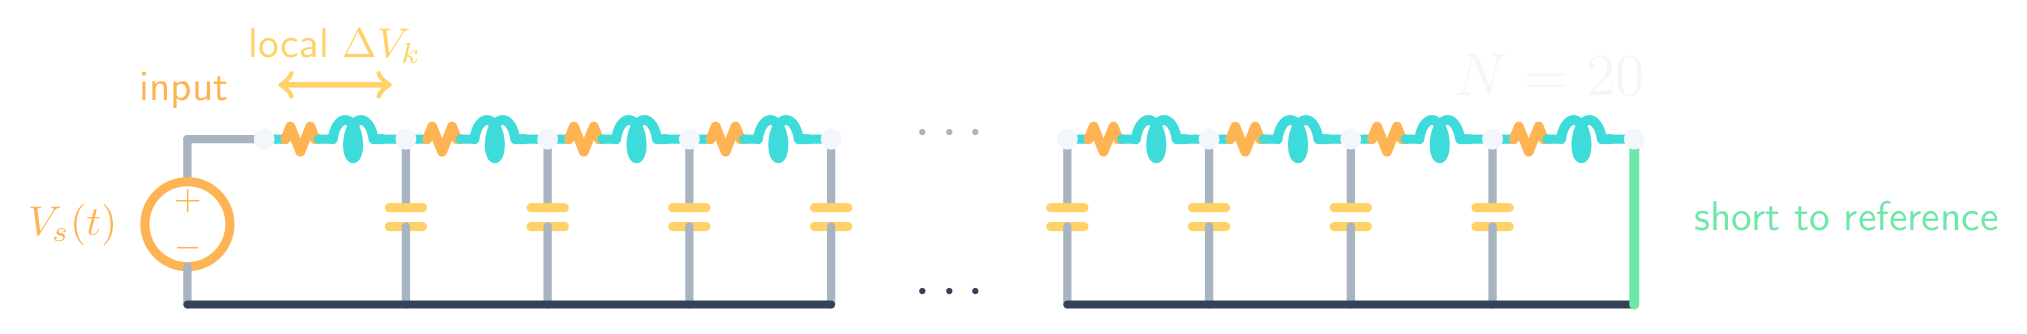
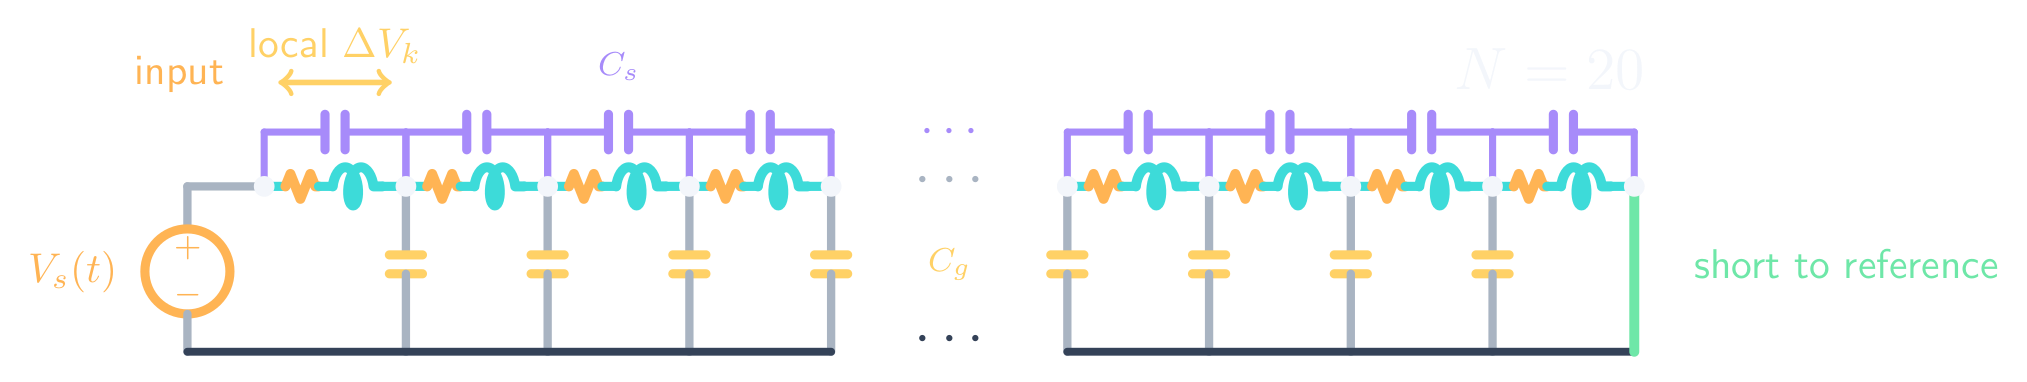
Manim/TikZ: corrige circuito (Cs serie, Cg recolocado) e ajusta apresentacao
- Diagrama grounded com capacitores serie Cs em paralelo com cada R-L; Cg movido para o gap central (sem sobreposicao com o circuito)
- Legenda do modelo lista R, L, Cg (shunt) e Cs (turn-to-turn); simbolo mu no lugar de 'u' nos textos de tempo
- Maior espacamento vertical nos callouts da cena da fonte (Peak/Front/Tail) e reposicionamento para evitar colisoes
- Janela da animacao temporal reduzida para 10 us; varredura temporal 2x mais rapida (run_time 240->120 s)
- .gitignore: ignora PDF intermediario do TikZ em assets (o .png e a saida versionada)

diff --git a/manim_presentation.py b/manim_presentation.py
@@ -41,8 +41,8 @@ SOLENOID_IMAGE_PATH = ROOT / "assets" / "solenoid_reference.png"
 LADDER_TIKZ_IMAGE_PATH = ROOT / "assets" / "tikz_ladder_circuit.png"
 GROUNDED_LADDER_TIKZ_IMAGE_PATH = ROOT / "assets" / "tikz_ladder_grounded_circuit.png"
 STATIC_TIME_WINDOW_US = 100.0
-ANIMATION_TIME_WINDOW_US = 20.0
-ANIMATION_PROFILE_RUN_TIME = 240.0
+ANIMATION_TIME_WINDOW_US = 10.0
+ANIMATION_PROFILE_RUN_TIME = 30.0
 TIME_DOMAIN_ALPHA = 5.0  # winding distribution factor for the grounded time-domain
                          # animation (C_series_total = C_total / alpha^2): the surge
                          # starts crowded at the entrance and relaxes toward uniform.
@@ -284,7 +284,7 @@ class VisualFactory:
         )
         return Group(visual, guide_path)
 
-    def surge_arrow(self, text: str = "1.2/50 us surge") -> VGroup:
+    def surge_arrow(self, text: str = "1.2/50 μs surge") -> VGroup:
         arrow = Arrow(LEFT * 2.7, LEFT * 0.55, color=ORANGE, buff=0.0, stroke_width=7)
         label = Text(text, font_size=19, color=ORANGE, weight=BOLD)
         label.next_to(arrow, UP, buff=0.12)
@@ -797,11 +797,15 @@ class SurgePresentation(Scene):
             Text("series resistance", font_size=13, color=MUTED),
             MathTex("L", font_size=24, color=CYAN),
             Text("series inductance", font_size=13, color=MUTED),
-            MathTex("C", font_size=24, color=YELLOW),
+            MathTex("C_g", font_size=24, color=YELLOW),
             Text("shunt capacitance", font_size=13, color=MUTED),
+            MathTex("C_s", font_size=24, color=PURPLE),
+            Text("turn-to-turn", font_size=13, color=MUTED),
         ).arrange(RIGHT, buff=0.16)
         legend.next_to(ladder, DOWN, buff=0.18)
 
+        c_total = float(cfg['C_total'])
+        c_series = c_total / (TIME_DOMAIN_ALPHA ** 2)
         per_section = VGroup(
             MathTex(
                 rf"L_{{\mathrm{{total}}}} = {float(cfg['L_total']) * 1e3:.1f}\,\mathrm{{mH}}",
@@ -814,12 +818,18 @@ class SurgePresentation(Scene):
                 color=ORANGE,
             ),
             MathTex(
-                rf"C_{{\mathrm{{total}}}} = {float(cfg['C_total']) * 1e9:.1f}\,\mathrm{{nF}}",
+                rf"C_g = {c_total * 1e9:.1f}\,\mathrm{{nF}}",
                 font_size=26,
                 color=YELLOW,
             ),
+            MathTex(
+                rf"C_s = {c_series * 1e12:.1f}\,\mathrm{{pF}}"
+                rf"\quad(\alpha = {TIME_DOMAIN_ALPHA:.0f})",
+                font_size=26,
+                color=PURPLE,
+            ),
             Text("State-space ODE solved with scipy", font_size=16, color=MUTED),
-        ).arrange(DOWN, aligned_edge=LEFT, buff=0.14)
+        ).arrange(DOWN, aligned_edge=LEFT, buff=0.12)
         per_section.to_edge(DOWN, buff=0.45).shift(LEFT * 3.3)
 
         source_statement = VGroup(
@@ -1034,7 +1044,7 @@ class SurgePresentation(Scene):
     def source_scene(self) -> None:
         heading = self.factory.heading(
             "Impulse Source",
-            "1.2/50 us waveform used as the input voltage source",
+            "1.2/50 μs waveform used as the input voltage source",
         )
         cfg = self.data.config
         source = ImpulseSource(
@@ -1117,7 +1127,7 @@ class SurgePresentation(Scene):
         def callout(title: str, detail_tex: str, color: str, width: float = 2.05) -> VGroup:
             box = RoundedRectangle(
                 width=width,
-                height=0.68,
+                height=0.86,
                 corner_radius=0.08,
                 fill_color=BACKGROUND,
                 fill_opacity=0.86,
@@ -1126,23 +1136,23 @@ class SurgePresentation(Scene):
             )
             title_mob = Text(title, font_size=13, color=color, weight=BOLD)
             detail_mob = MathTex(detail_tex, font_size=21, color=TEXT)
-            text_group = VGroup(title_mob, detail_mob).arrange(DOWN, aligned_edge=LEFT, buff=0.01)
+            text_group = VGroup(title_mob, detail_mob).arrange(DOWN, aligned_edge=LEFT, buff=0.18)
             text_group.move_to(box.get_center())
             group = VGroup(box, text_group)
             group.set_z_index(6)
             return group
 
         peak_label = callout("Peak", r"100\%\ \mathrm{reference}", YELLOW, width=2.10)
-        peak_label.move_to(axes.c2p(27.0, 93.0))
+        peak_label.move_to(axes.c2p(42.0, 93.0))
         front_label = callout("Front time", r"T_1 = 1.2\,\mu\mathrm{s}", CYAN, width=2.25)
-        front_label.move_to(axes.c2p(20.0, 32.0))
+        front_label.move_to(axes.c2p(15.0, 55.0))
         tail_label = callout("Tail time", r"T_2 = 50\,\mu\mathrm{s}", BLUE, width=2.15)
-        tail_label.move_to(axes.c2p(73.0, 72.0))
+        tail_label.move_to(axes.c2p(80.0, 55.0))
 
         def note_card(title: str, detail: str, color: str) -> VGroup:
             box = RoundedRectangle(
                 width=3.55,
-                height=0.58,
+                height=0.74,
                 corner_radius=0.07,
                 fill_color=BACKGROUND,
                 fill_opacity=0.48,
@@ -1151,14 +1161,14 @@ class SurgePresentation(Scene):
             )
             title_mob = Text(title, font_size=12, color=color, weight=BOLD)
             detail_mob = Text(detail, font_size=11, color=MUTED)
-            text_group = VGroup(title_mob, detail_mob).arrange(DOWN, aligned_edge=LEFT, buff=0.02)
+            text_group = VGroup(title_mob, detail_mob).arrange(DOWN, aligned_edge=LEFT, buff=0.16)
             text_group.move_to(box.get_center())
             return VGroup(box, text_group)
 
         definition = VGroup(
             note_card("Fast front", "First sections charge first.", CYAN),
             note_card("Tail", "Voltage remains during redistribution.", BLUE),
-        ).arrange(RIGHT, buff=0.24)
+        ).arrange(RIGHT, buff=0.50)
         definition.next_to(axes, DOWN, buff=0.36).align_to(axes, LEFT)
         source_badge = VGroup(
             RoundedRectangle(

diff --git a/assets/tikz_ladder_grounded_circuit.tex b/assets/tikz_ladder_grounded_circuit.tex
@@ -16,6 +16,7 @@
 \definecolor{psOrange}{HTML}{FFB454}
 \definecolor{psYellow}{HTML}{FFD166}
 \definecolor{psGreen}{HTML}{6EE7A8}
+\definecolor{psPurple}{HTML}{A78BFA}
 
 \tikzset{
     wire/.style={draw=psMuted,line width=2.0pt},
@@ -24,6 +25,8 @@
     resistor/.style={draw=psOrange,line width=2.4pt,decorate,decoration={zigzag,amplitude=3.0pt,segment length=4.8pt}},
     inductor/.style={draw=psCyan,line width=2.4pt,decorate,decoration={coil,aspect=0.45,segment length=3.8pt,amplitude=4.6pt}},
     capplate/.style={draw=psYellow,line width=2.2pt},
+    seriesplate/.style={draw=psPurple,line width=2.2pt},
+    serieswire/.style={draw=psPurple,line width=1.7pt},
     sourcecircle/.style={draw=psOrange,line width=2.2pt},
     shortwire/.style={draw=psGreen,line width=2.4pt},
 }
@@ -43,6 +46,18 @@
     \draw[wire] (#1,-0.74) -- (#1,-1.40);
 }
 
+% Cs (turn-to-turn) capacitor in parallel with each R-L branch, arching above.
+% Adjacent cells share the node verticals, forming a series Cs chain on top.
+\newcommand{\seriescap}[2]{
+    \pgfmathsetmacro{\cx}{(#1 + #2)/2}
+    \draw[serieswire] (#1,0) -- (#1,0.46);
+    \draw[serieswire] (#1,0.46) -- ({\cx - 0.085},0.46);
+    \draw[seriesplate] ({\cx - 0.085},0.31) -- ({\cx - 0.085},0.61);
+    \draw[seriesplate] ({\cx + 0.085},0.31) -- ({\cx + 0.085},0.61);
+    \draw[serieswire] ({\cx + 0.085},0.46) -- (#2,0.46);
+    \draw[serieswire] (#2,0.46) -- (#2,0);
+}
+
 \sectioncell{-5.70}{-4.50}
 \sectioncell{-4.50}{-3.30}
 \sectioncell{-3.30}{-2.10}
@@ -52,6 +67,12 @@
 \sectioncell{2.30}{3.50}
 \sectioncell{3.50}{4.70}
 \sectioncell{4.70}{5.90}
+
+\foreach \a/\b in {%
+    -5.70/-4.50,-4.50/-3.30,-3.30/-2.10,-2.10/-0.90,%
+    1.10/2.30,2.30/3.50,3.50/4.70,4.70/5.90} {
+    \seriescap{\a}{\b}
+}
 
 \draw[wire] (-6.35,0.00) -- (-5.70,0.00);
 \draw[wire] (-6.35,0.00) -- (-6.35,-0.36);
@@ -74,12 +95,17 @@
 }
 
 \node[text=psMuted] at (0.10,0.05) {\Large $\cdots$};
+\node[text=psPurple] at (0.10,0.46) {\large $\cdots$};
 \node[text=psStroke] at (0.10,-1.30) {\Large $\cdots$};
-\node[text=psOrange,anchor=east] at (-5.88,0.42) {input};
+\node[text=psOrange,anchor=east] at (-5.92,0.95) {input};
 \node[text=psGreen,anchor=west] at (6.28,-0.65) {short to reference};
-\node[text=psText,anchor=west] at (4.25,0.55) {\Large $N = 20$};
+\node[text=psText,anchor=west] at (4.25,1.00) {\Large $N = 20$};
 
-\draw[<->,draw=psYellow,line width=1.35pt] (-5.58,0.46) -- (-4.62,0.46);
-\node[text=psYellow,anchor=south] at (-5.10,0.52) {local $\Delta V_k$};
+\draw[<->,draw=psYellow,line width=1.35pt] (-5.58,0.88) -- (-4.62,0.88);
+\node[text=psYellow,anchor=south] at (-5.10,0.92) {local $\Delta V_k$};
+
+% capacitor role labels (full description is in the Manim legend)
+\node[text=psPurple,anchor=south] at (-2.70,0.78) {\footnotesize $C_s$};
+\node[text=psYellow] at (0.10,-0.66) {\footnotesize $C_g$};
 \end{tikzpicture}
 \end{document}